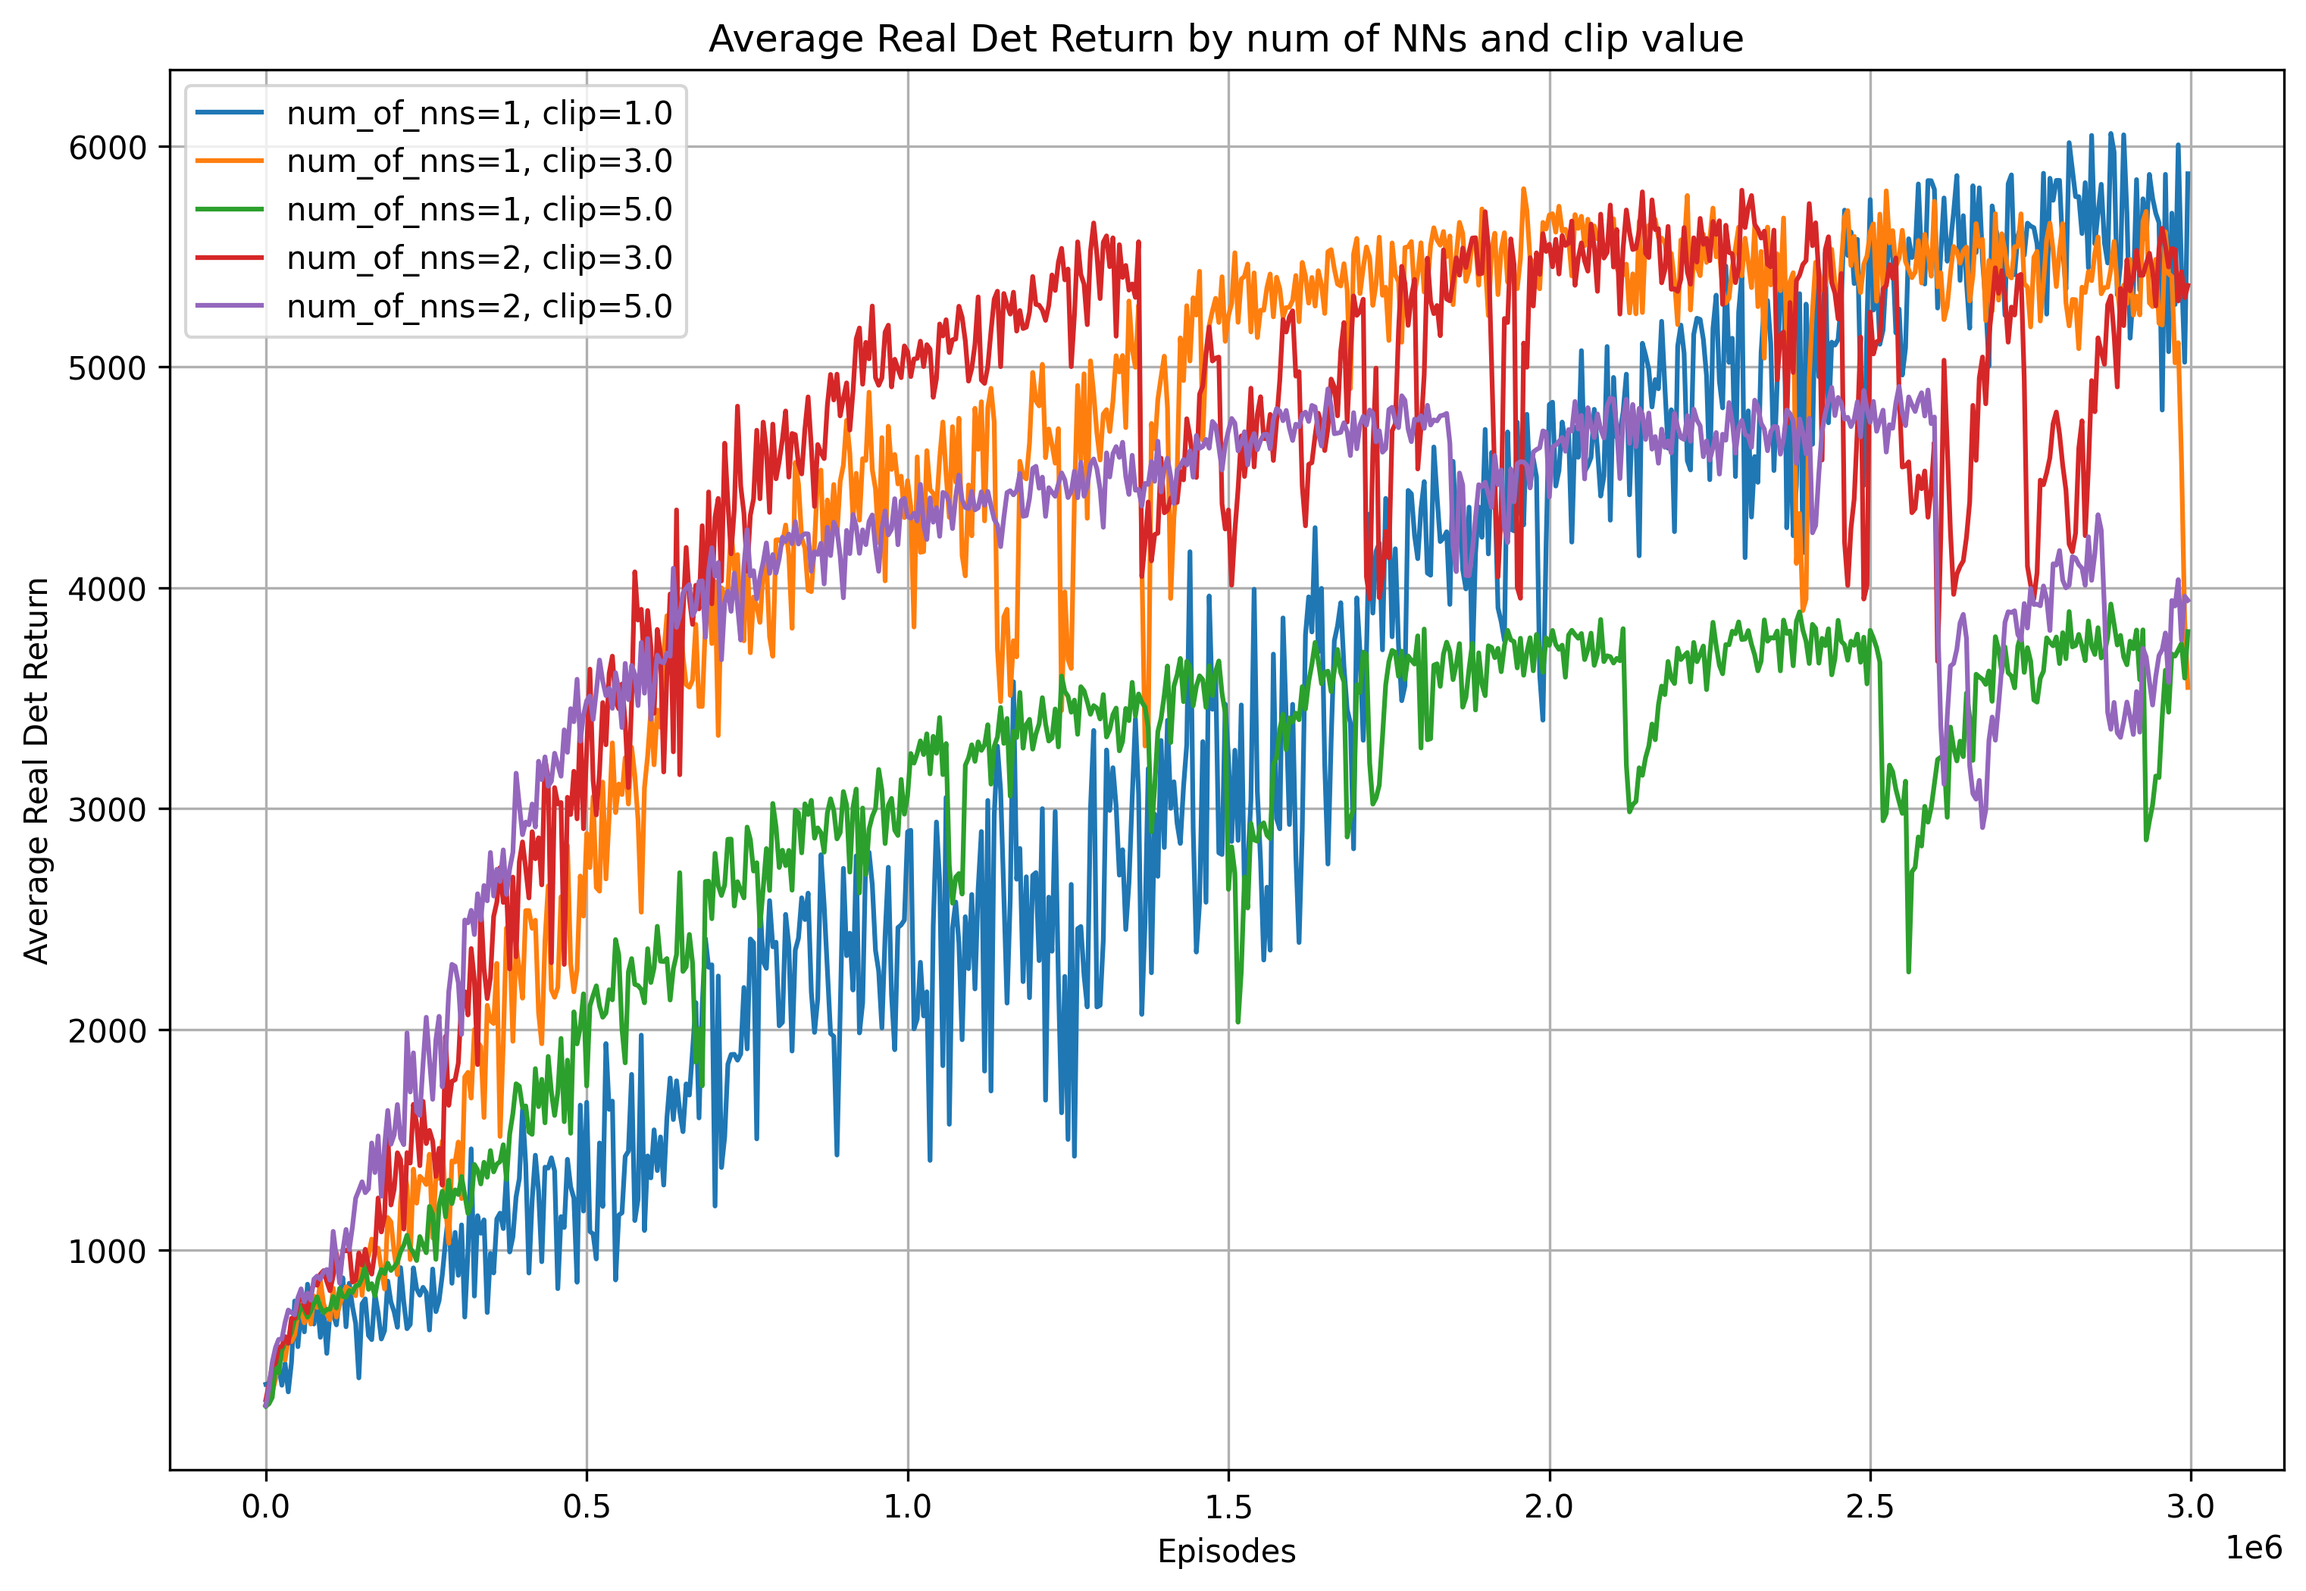
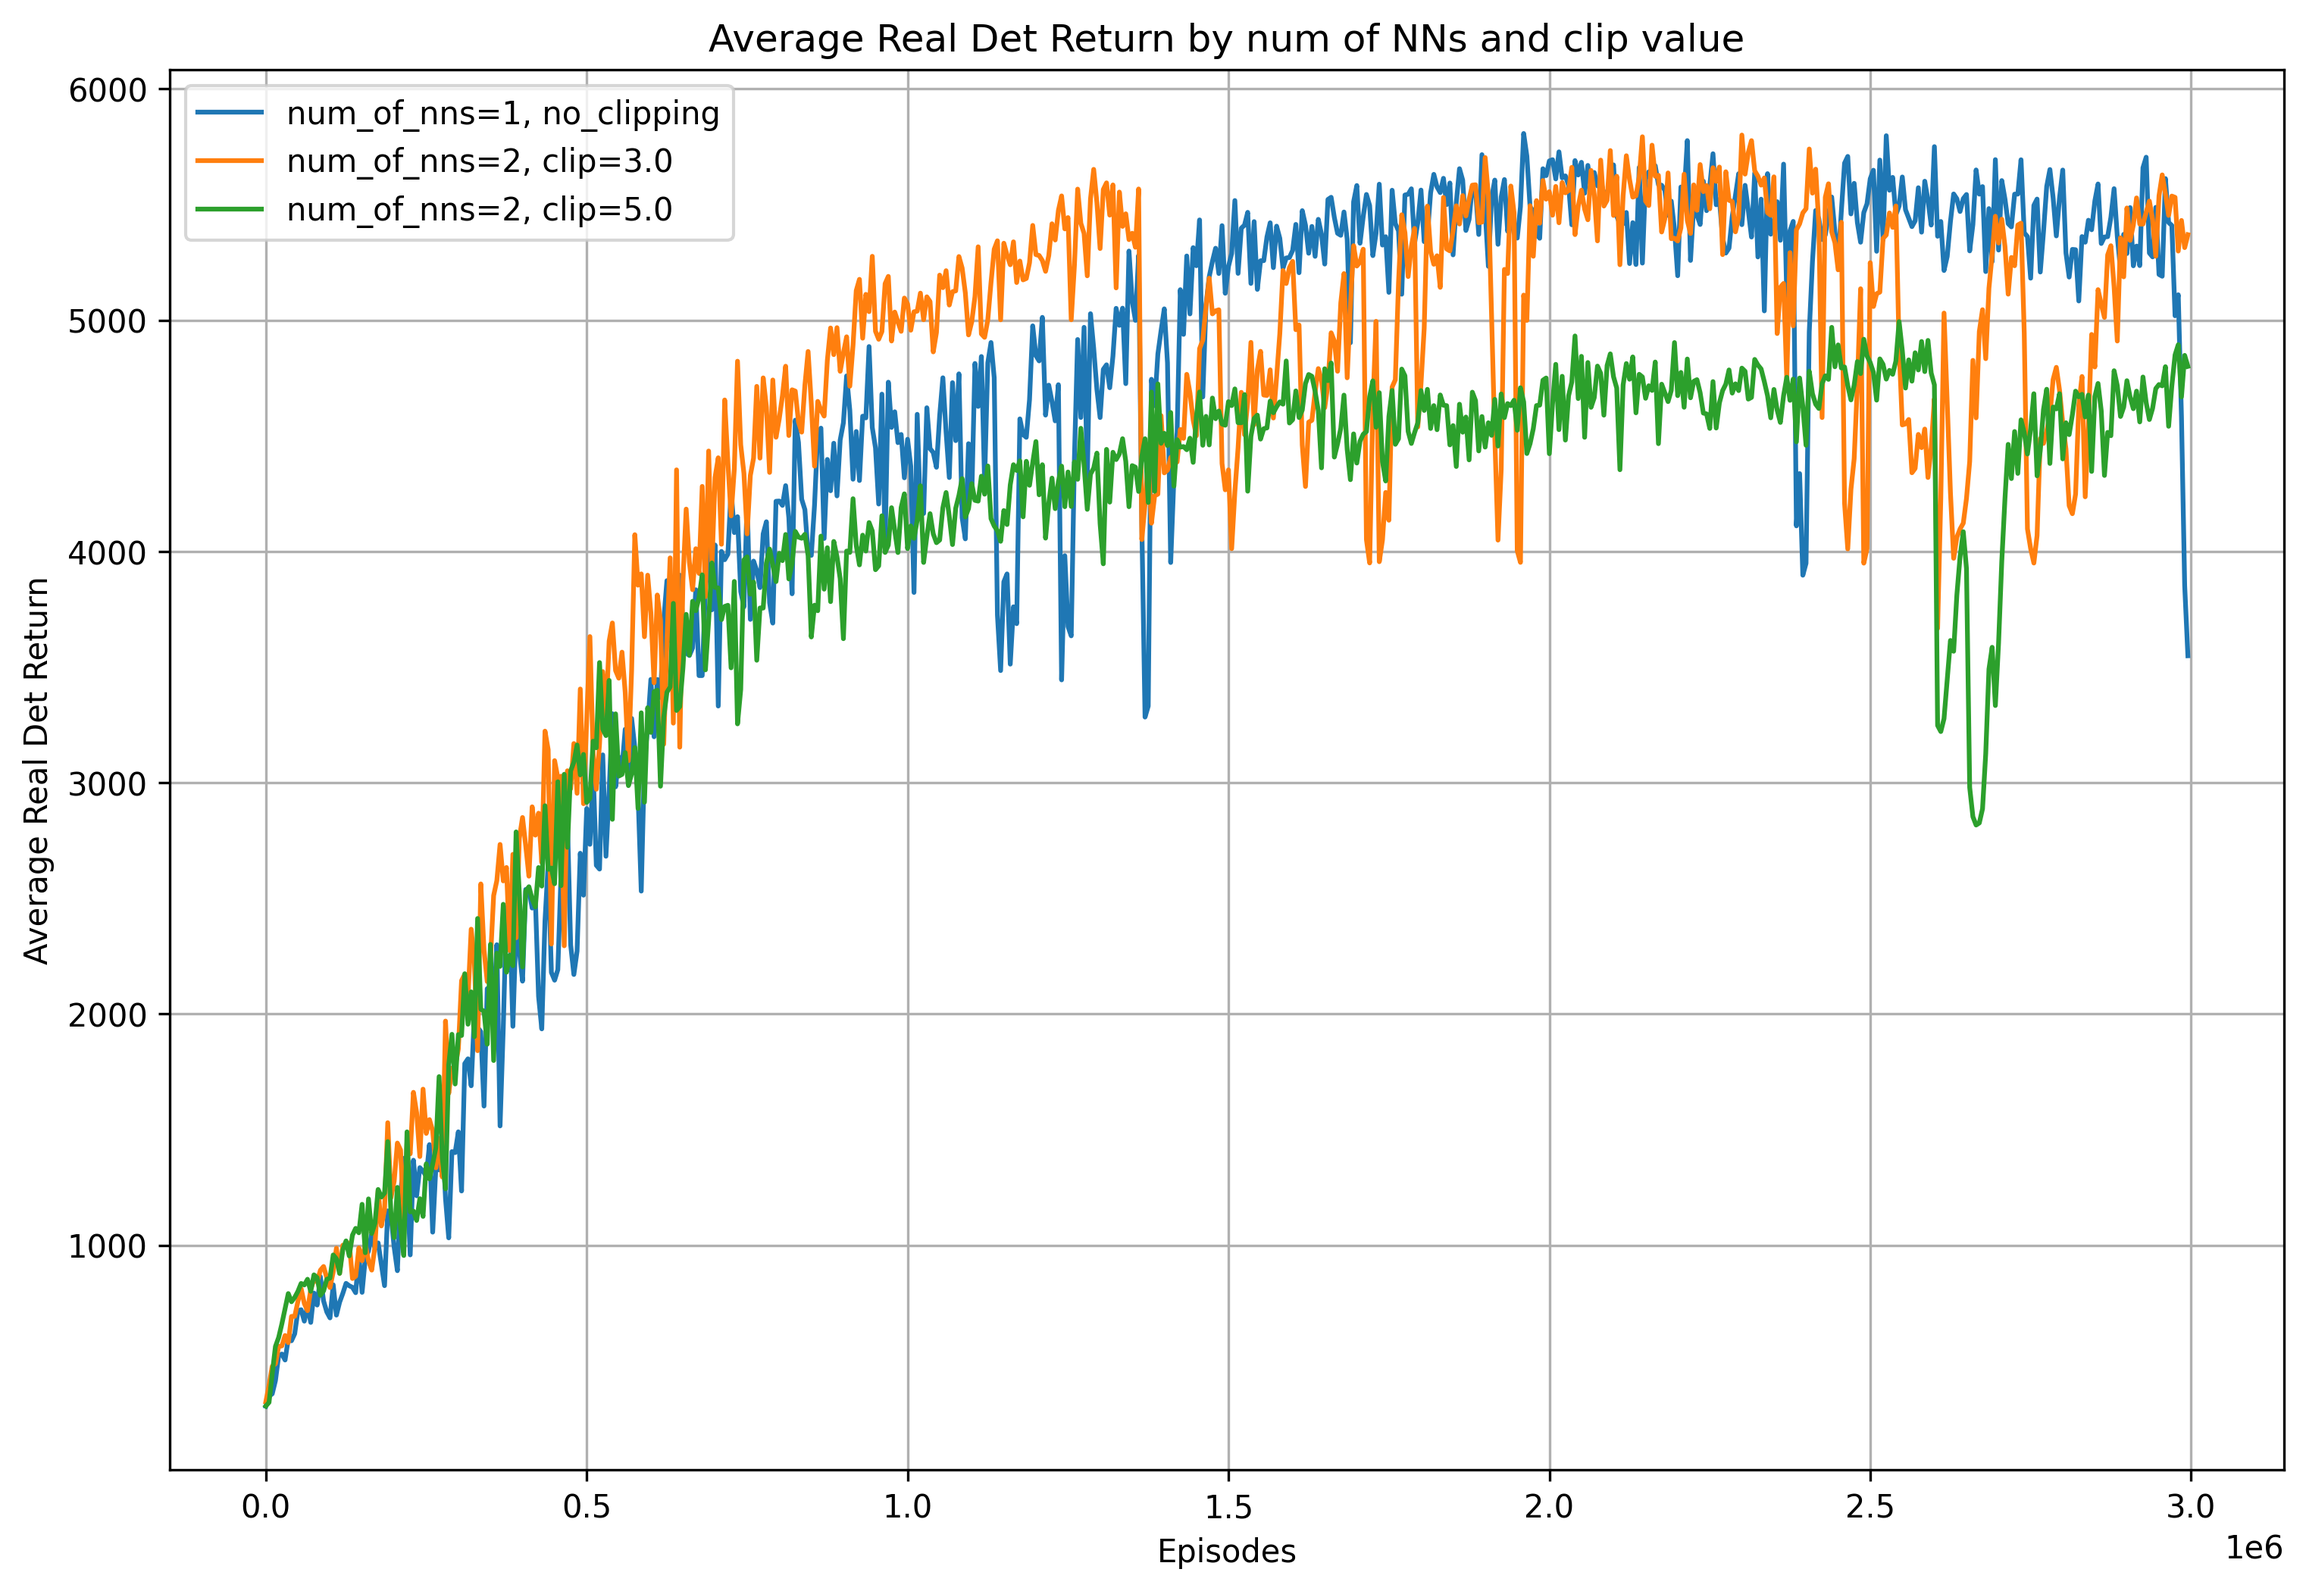
plots

diff --git a/plots/average_det_reward.py b/plots/average_det_reward.py
@@ -85,7 +85,7 @@ def plot_data(q_clip_results, show_confidence_interval, q_filter=None):
         mean = np.mean(data, axis=0)
         episodes = np.arange(min_length) * 5000
         color, line_style = style_mapping[(q, clip)]
-        label = f'num_of_nns={q}, ' + ('no_clipping' if clip == 0.0 else f'clip={clip}')
+        label = f'num_of_nns={q}, ' + ('no_clipping' if q == 1.0 else f'clip={clip}')
         plt.plot(episodes, mean, label=label, linestyle=line_style, color=color)
 
         if show_confidence_interval:

diff --git a/common/mod_sac.py b/common/mod_sac.py
@@ -348,6 +348,8 @@ class SAC:
             exploration_bonus = self.uncertainty_coef * q_std
         else:
             exploration_bonus = 0
+
+        print("exploration bonus ", exploration_bonus)
         
         # Use mean + exploration bonus in policy loss
         loss_pi = (self.alpha * logp_pi - (q_mean + exploration_bonus)).mean()
